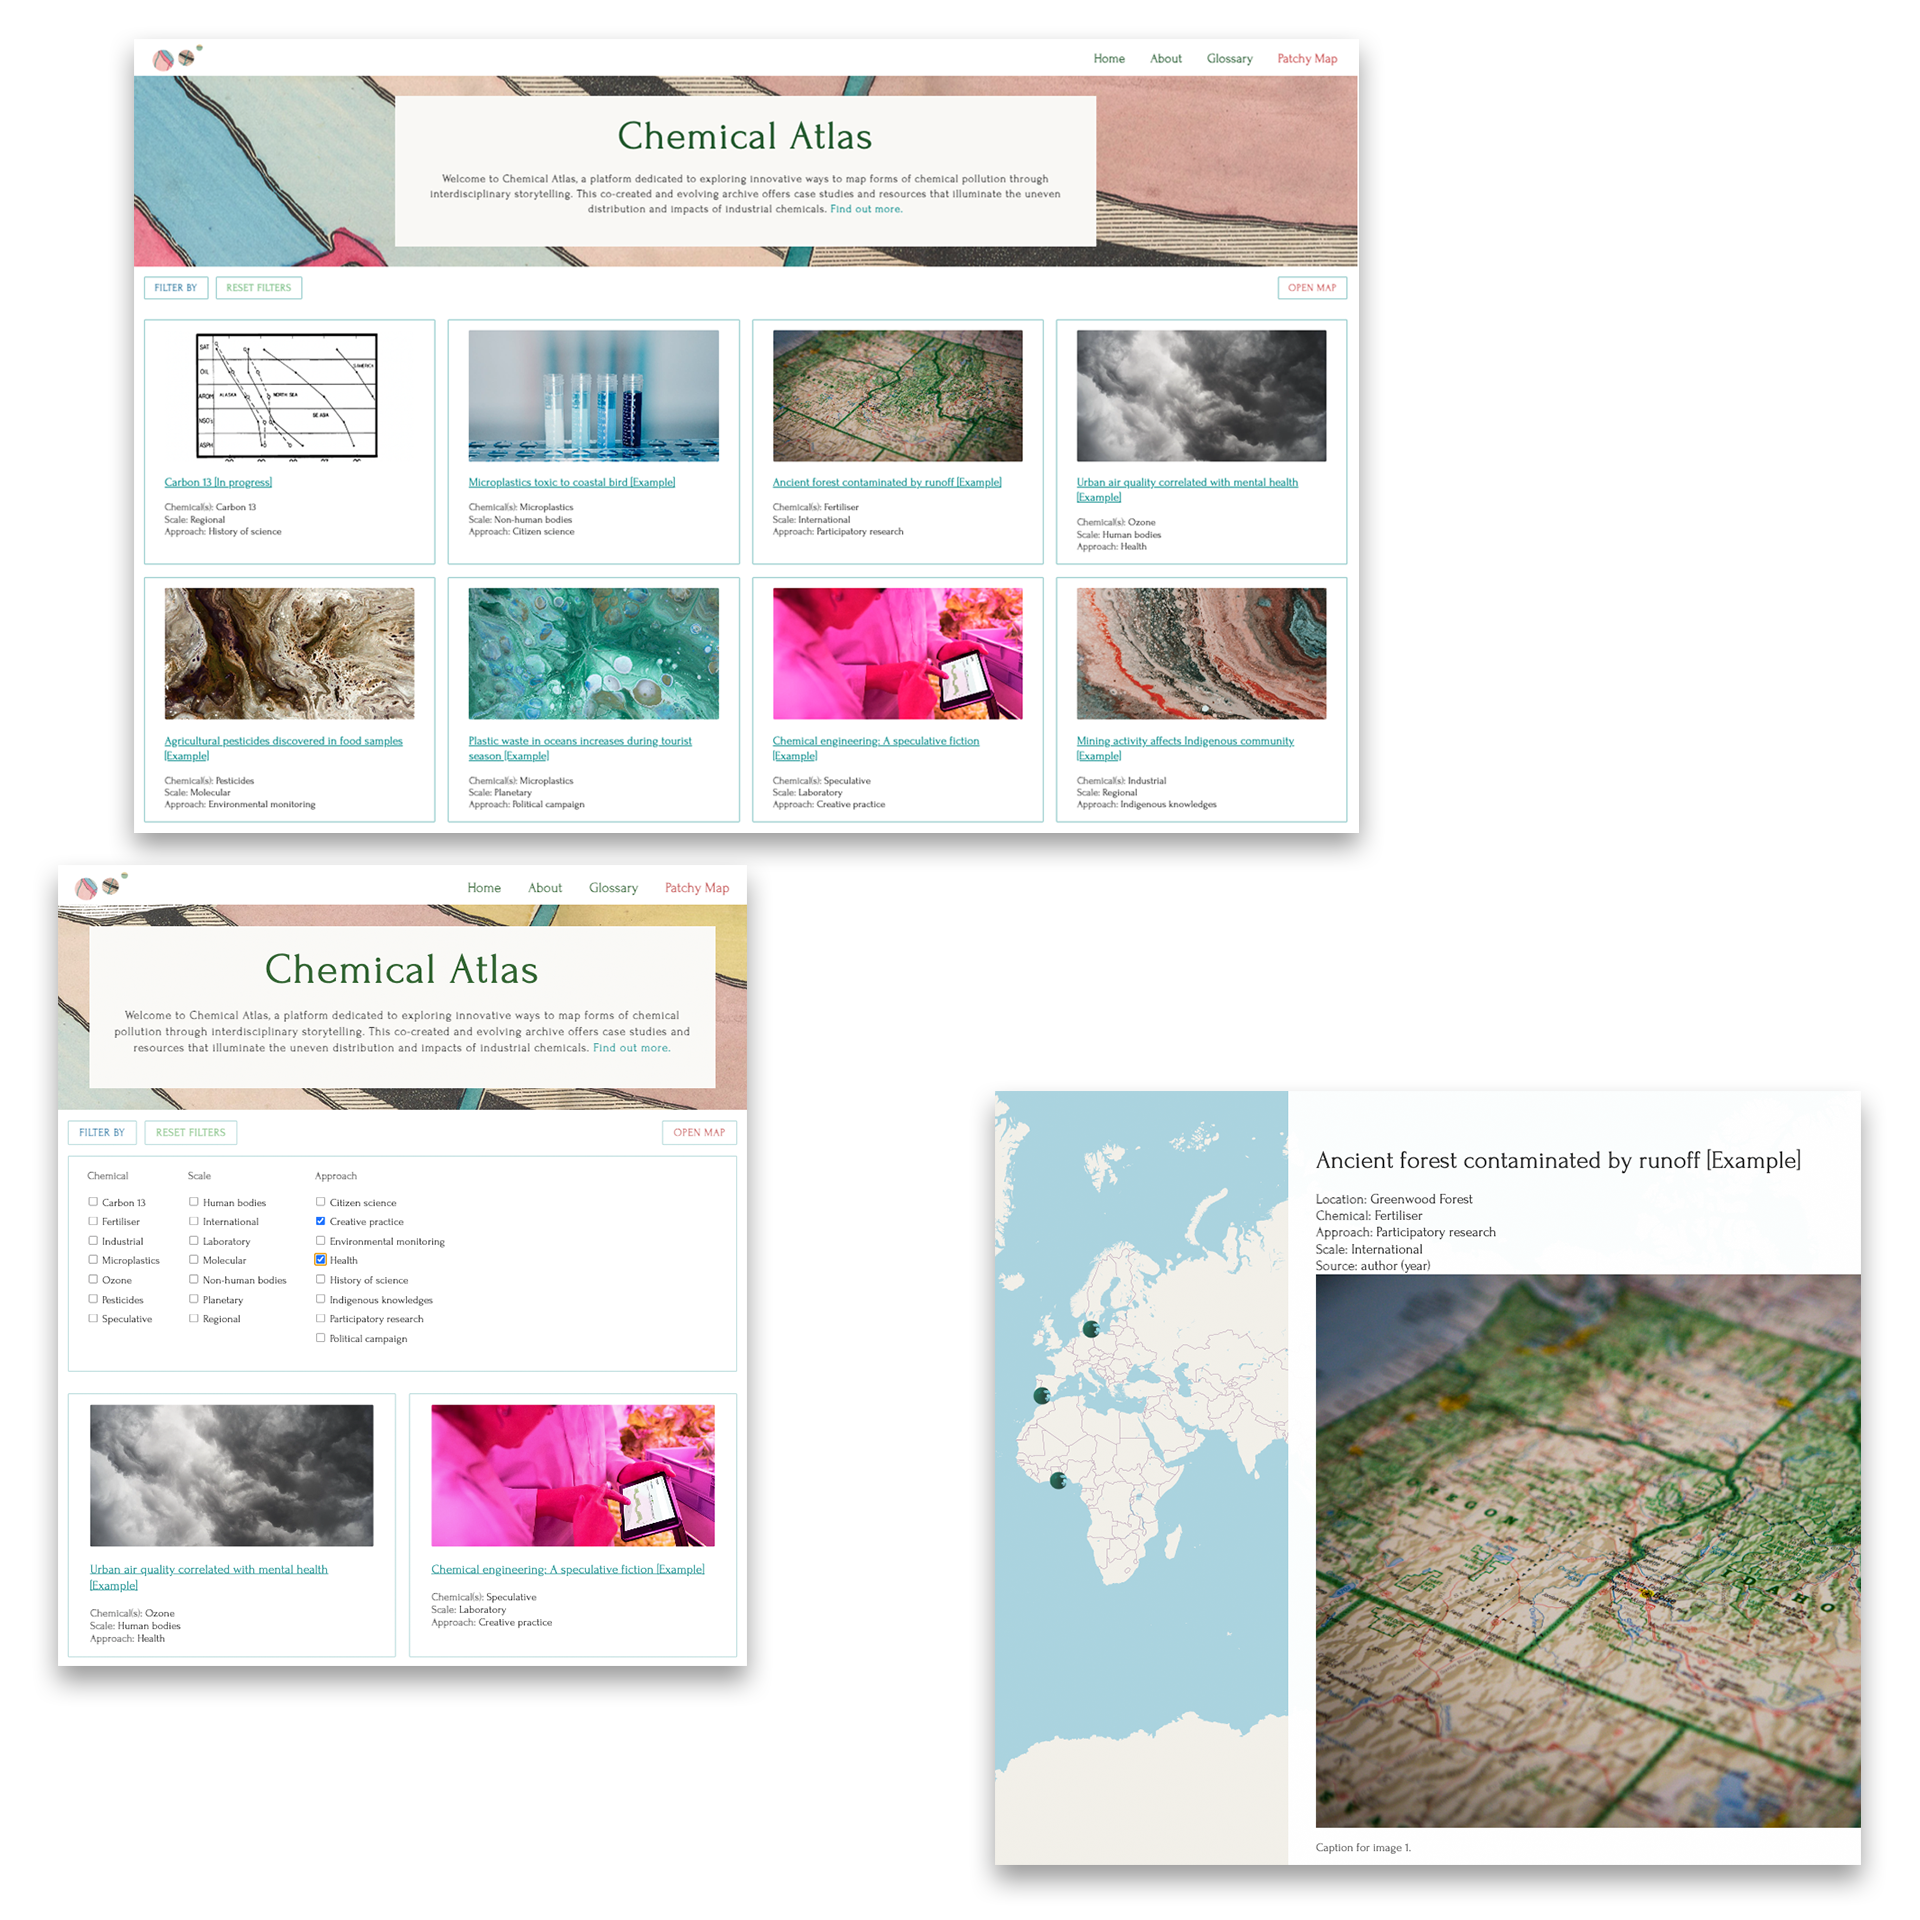
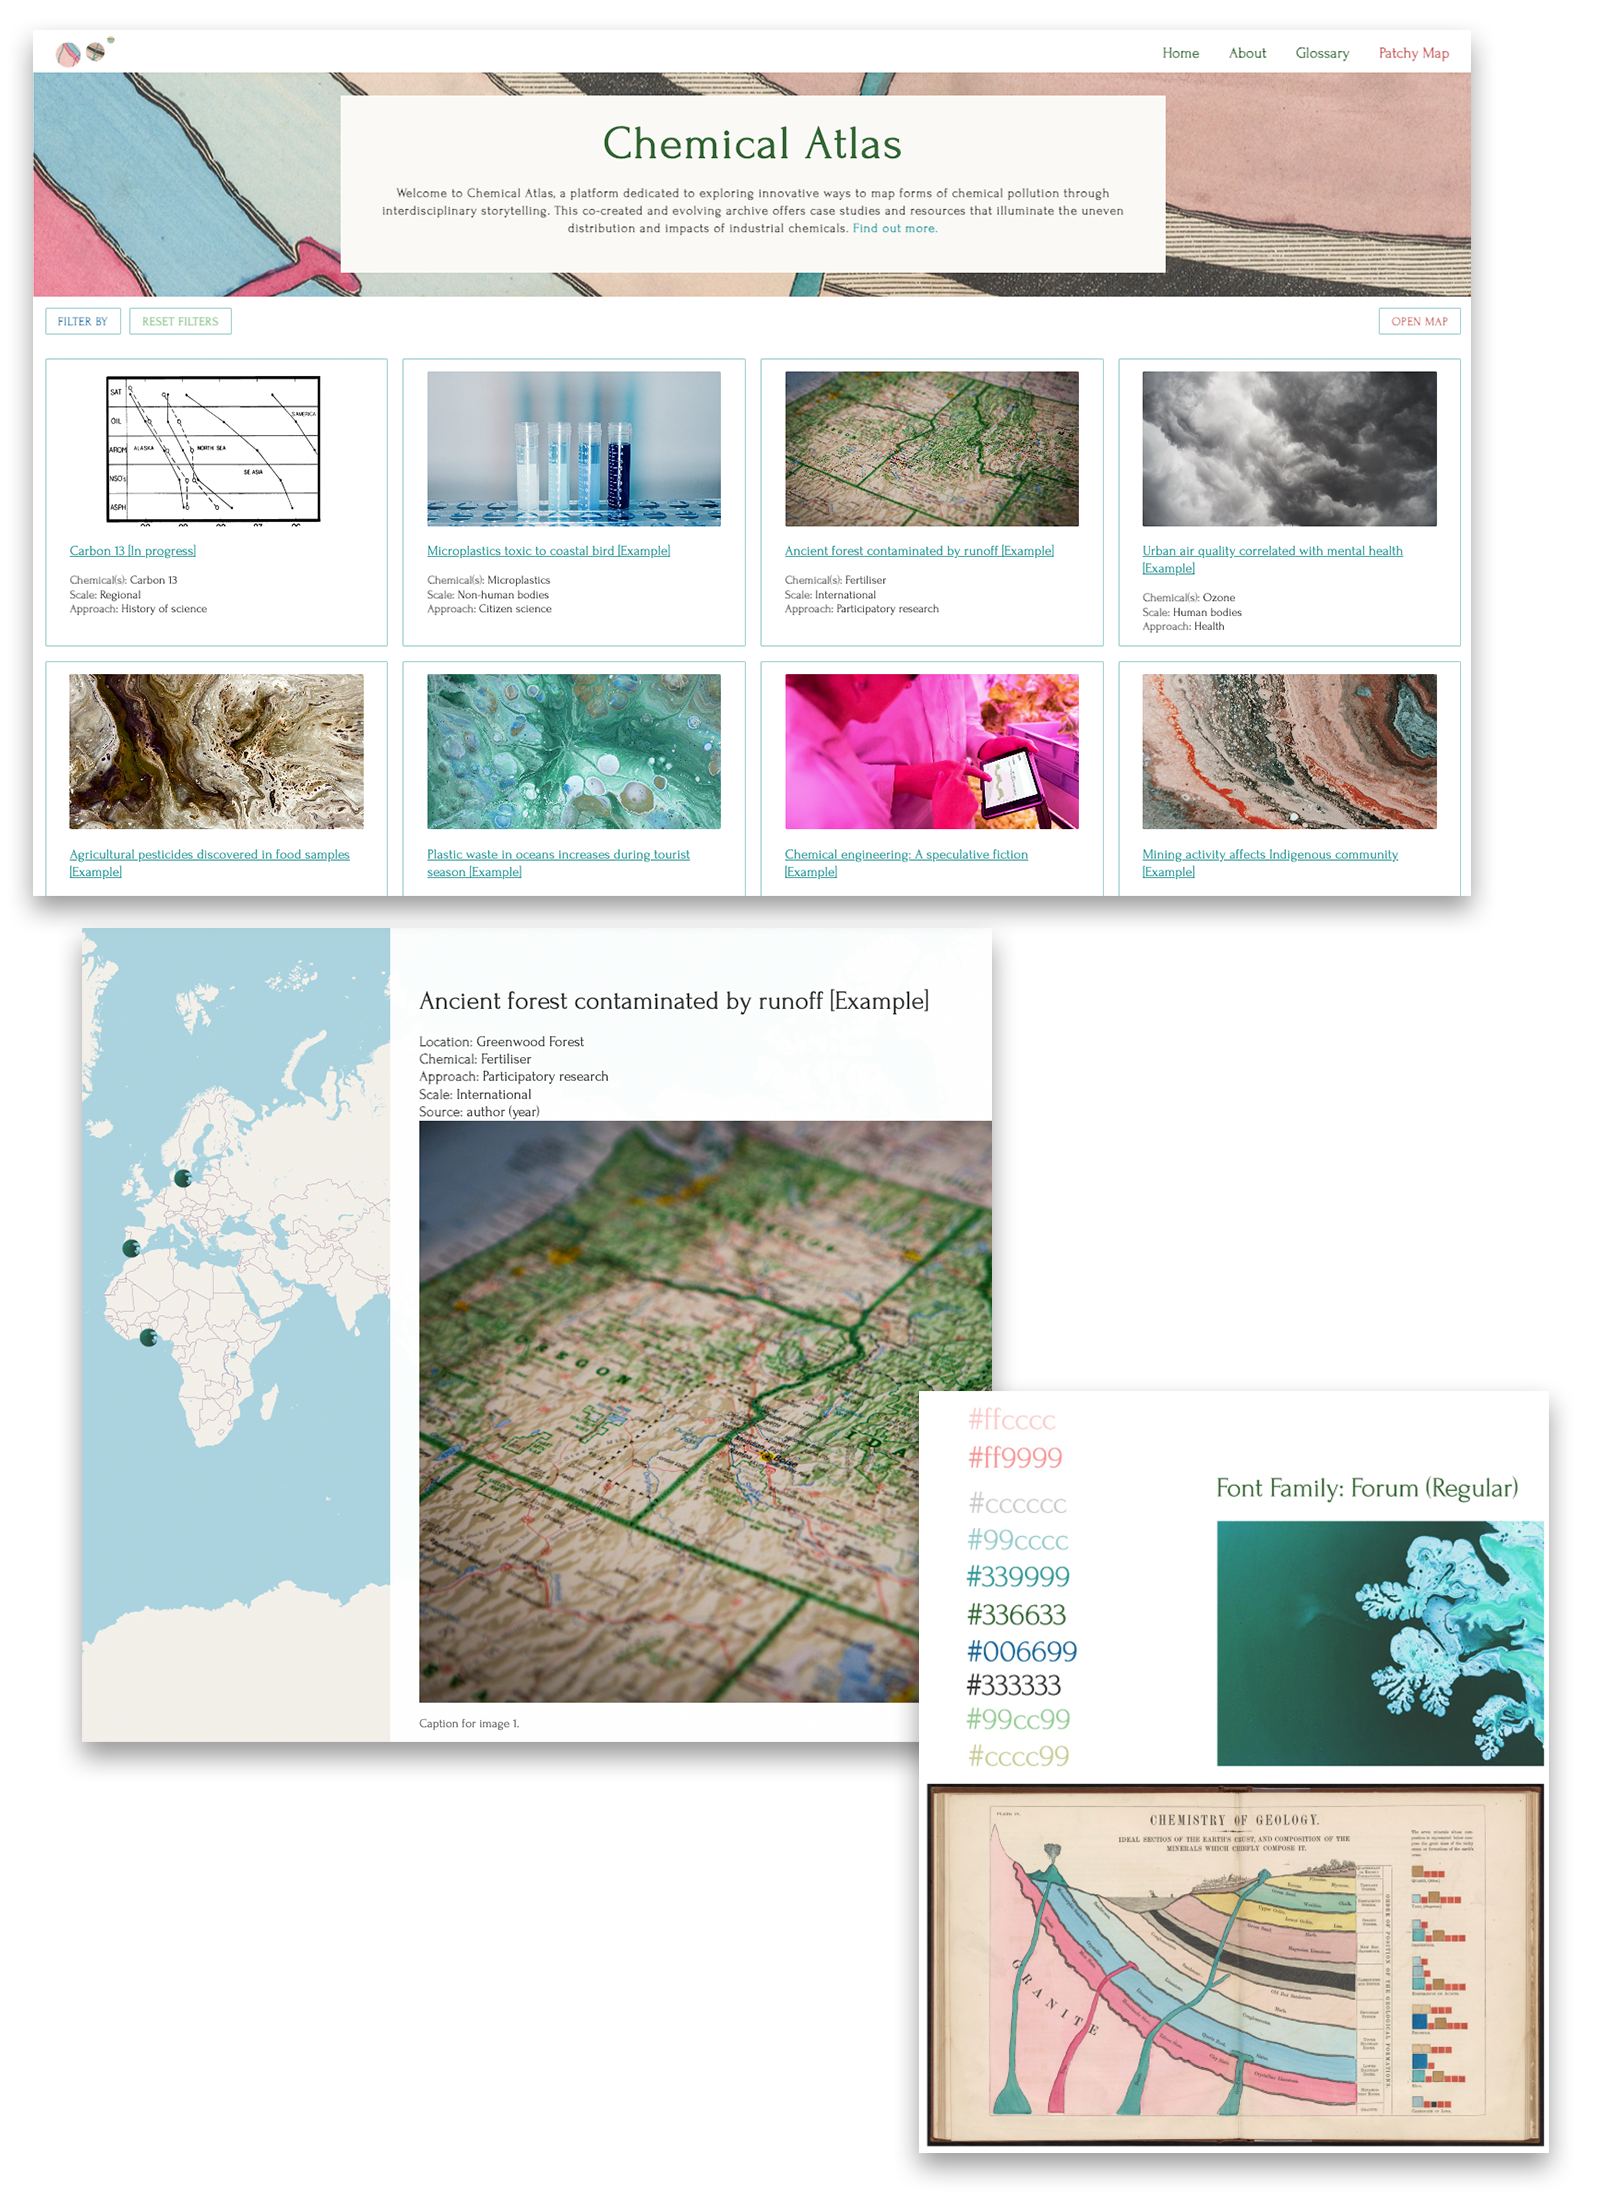
update care cycle project page
Add image gallery and edit typesetting on care cycle project page.
Replace main image for Chemical Atlas.

diff --git a/thecarecycle.html b/thecarecycle.html
@@ -26,18 +26,40 @@
 
     <article class="project">
         <h1>The Care Cycle</h1>
-        <h4>Short film showing at Dutch Design Week 2025</h4>
         <div class="project_summary">
-            <blockquote>Gowns made far away are worn for a moment, disposed after a single use. But what is thrown away, does not go away. It moves, it accumulates, it stays with us. Leaving harmful residues of plastic and toxic chemicals, drifting into air and seeping into earth, rivers, and bodies.</blockquote>
-            <img style="width:100%; max-width:1400px;" src="imgs/carecycle/operating-room-window.jpg" class="project_main_img"><br>
+            <img style="width:100%; max-width:1400px;" src="imgs/carecycle/lca-define.jpg" class="project_main_img"><br>
             <p>In the Netherlands, healthcare accounts for 7% of total GHG emmissions. <em>The Care Cycle</em> is a short film that highlights the environmental impact of healthcare. Specifically, the film follows the life cycle of a surgical gown. Through observational imagery and a poetic voiceover, <em>The Care Cycle</em> traces the geographies of materials across manufacturing, use, and disposal, refiguring the hospital as embedded in planetary systems.</p>
-            <p>Produced in collaboration with the <b>Centre for Sustainable Healthcare</b> at <b>Amsterdam UMC</b>, the project contributes to broader efforts to embed environmental accountability within healthcare and systems design. <em>The Care Cycle</em> will premiere with a video installation and screening in United Cowboys, Eindhoven, during <b>Dutch Design Week</b>, October 19-26 2025.
-            </p>
 
+            <div class="project_gallery">
+                <img src="imgs/carecycle/gowns-wash-1.jpg">
+                <img src="imgs/carecycle/gowns-wash-2.jpg">
+                <img src="imgs/carecycle/gowns-folded.jpg">
+            </div>
+            <br>
+            <blockquote style="line-height: 1.5em"><i>Gowns made far away are worn for a moment, <br>disposed after a single use. <br>But what is thrown away, does not go away. <br>It moves, it accumulates, it stays with us. <br>Leaving harmful residues of plastic and toxic chemicals, <br>drifting into air and seeping into earth, rivers, and bodies.</i></blockquote>
+            <br>
+            <div class="project_gallery">
+                <img src="imgs/carecycle/bubbles.jpg">
+                <img src="imgs/carecycle/curtain.jpg">
+                <img src="imgs/carecycle/drone.jpg">
+                <img src="imgs/carecycle/pollution.jpg">
+                <img src="imgs/carecycle/smokestack.jpg">
+                <img src="imgs/carecycle/water-glass.jpg">
+            </div>
+            <br>
+            <p>Produced in collaboration with the <b>Centre for Sustainable Healthcare</b> at <b>Amsterdam UMC</b>, the project contributes to broader efforts to embed environmental accountability within healthcare and systems design. <em>The Care Cycle</em> premieres as a video installation and screening at <b>Dutch Design Week</b>, October 19-26 2025.
+            </p>
+            <br>
+            <img style="width:100%; max-width:1400px;" src="imgs/carecycle/hands.jpg" class="project_main_img"><br>
+            <br>
             <p>
-                <b>Production and Concept Lead:</b> Lucy Sabin<br>
-                <b>Filmmakers and Designers:</b> Leidy Karina Gómez Montoya and Eleni Vrettakou<br>
-                <b>Collaborating Scientist:</b> Florine de Haes
+                <b>Production and story:</b> Lucy Sabin<br>
+                <b>Filming and photography:</b> Leidy Karina Gómez Montoya and Eleni Vrettakou<br>
+                <b>Scientific advisor:</b> Florine de Haes<br>
+            </p>
+            <p>
+                <b>Showing at</b>: <i>bOre</i> exhibition, United Cowboys, Eindhoven, October 2025<br>
+                <b>Funded by:</b> The Centre for Sustainable Healthcare and Amsterdam Public Health Institute<br>
             </p>
         </div>
 
@@ -47,6 +69,4 @@
     <footer><a href="https://uk.linkedin.com/in/lucysabin" target="_blank">Lucy Sabin</a> | UCL Geography | PhD 2020-24</footer>
 
     <script src="scroll.js"></script>
-</body>
-
-</html>
+</body></html>

diff --git a/works.html b/works.html
@@ -27,9 +27,6 @@
 
     <div class="gallery-image">
 
-        <h1 style="width:100%; text-align: center; font-size:1rem;">work-in-progress</h1>
-
-
         <div class="img-box">
             <a href="thecarecycle.html">
                 <img src="imgs/carecycle/carecycle-thumbnail.jpg" alt="operating room" /></a>
@@ -56,8 +53,6 @@
                 <p class="opacity-low">conceptual website (external link)</p>
             </div>
         </div>
-
-        <h1 style="width:100%; text-align: center; font-size:1rem;">previous works</h1>
 
         <div class="img-box">
             <a href="oilypalms.html">

diff --git a/chemicalatlas.html b/chemicalatlas.html
@@ -27,7 +27,7 @@
     <article class="project">
 <!--        <h1>Chemical Atlas</h1>-->
 <!--        <h4>co-creating a conceptual website</h4><br>-->
-        <img src="imgs/chematlas/design-board.png" class="project_main_img" style="width:97.5%; max-width:1600px;">
+        <img src="imgs/chematlas/chematlas_desktop_home.jpg" class="project_main_img" style="width:97.5%; max-width:1200px; box-shadow: 5px 5px 6px 6px #f5f5f5;">
 
         <div class="project_summary">
             <h2>Welcome to Chemical Atlas</h2>

diff --git a/styles.css b/styles.css
@@ -643,7 +643,7 @@ footer a {
     max-width: 900px;
     width: 100%;
     margin: 0 auto;
-    padding-top: 3em;
+    padding-top: 2em;
     padding-bottom: 3em;
 }
 
